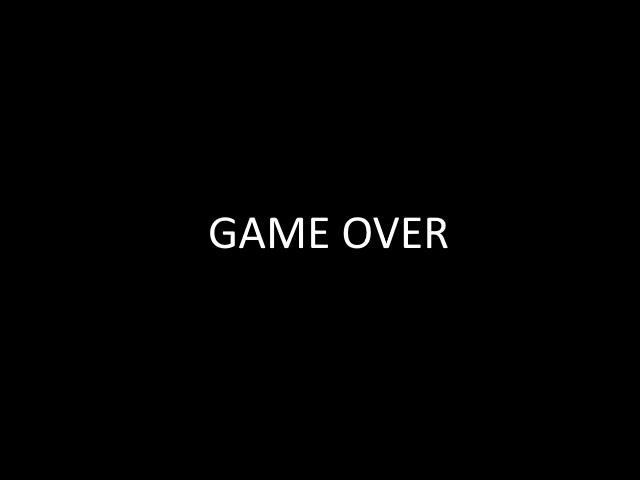
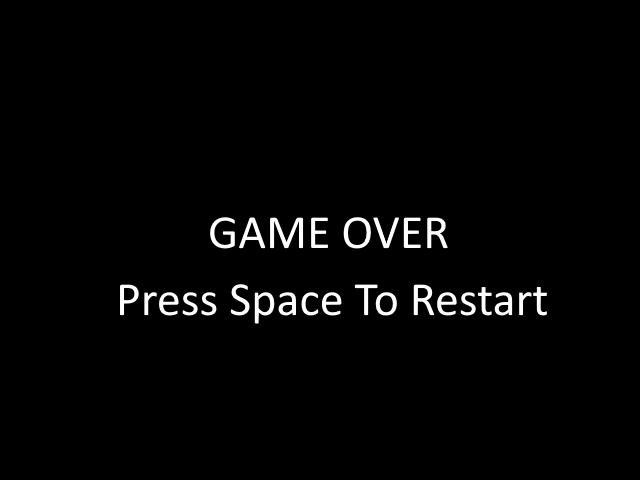
restart

Changed region(s): [[0.1875, 0.5938, 0.5312, 0.6875], [0.5625, 0.5938, 0.875, 0.6562]]

diff --git a/main.py b/main.py
@@ -313,7 +313,9 @@ def on_key_down(game_state, key):
             game_state["flow_rate"] = game_state["max_flow_rate"] if game_state["flow_rate"] == 0 else 0.0
             set_valve_text(game_state)
     else:
-        pass
+        if key == pg.K_SPACE:
+            game_state = init_game()
+    return game_state
 
 def on_key_up(game_state, key):
     controls = game_state["controls"]
@@ -342,7 +344,7 @@ def main_function(): # PYGBAG: decorate with 'async'
                 if event.key == pg.K_ESCAPE:
                     done = True
                 else:
-                    on_key_down(game_state, event.key)
+                    game_state = on_key_down(game_state, event.key)
             elif event.type == pg.KEYUP:
                 on_key_up(game_state, event.key)
 
